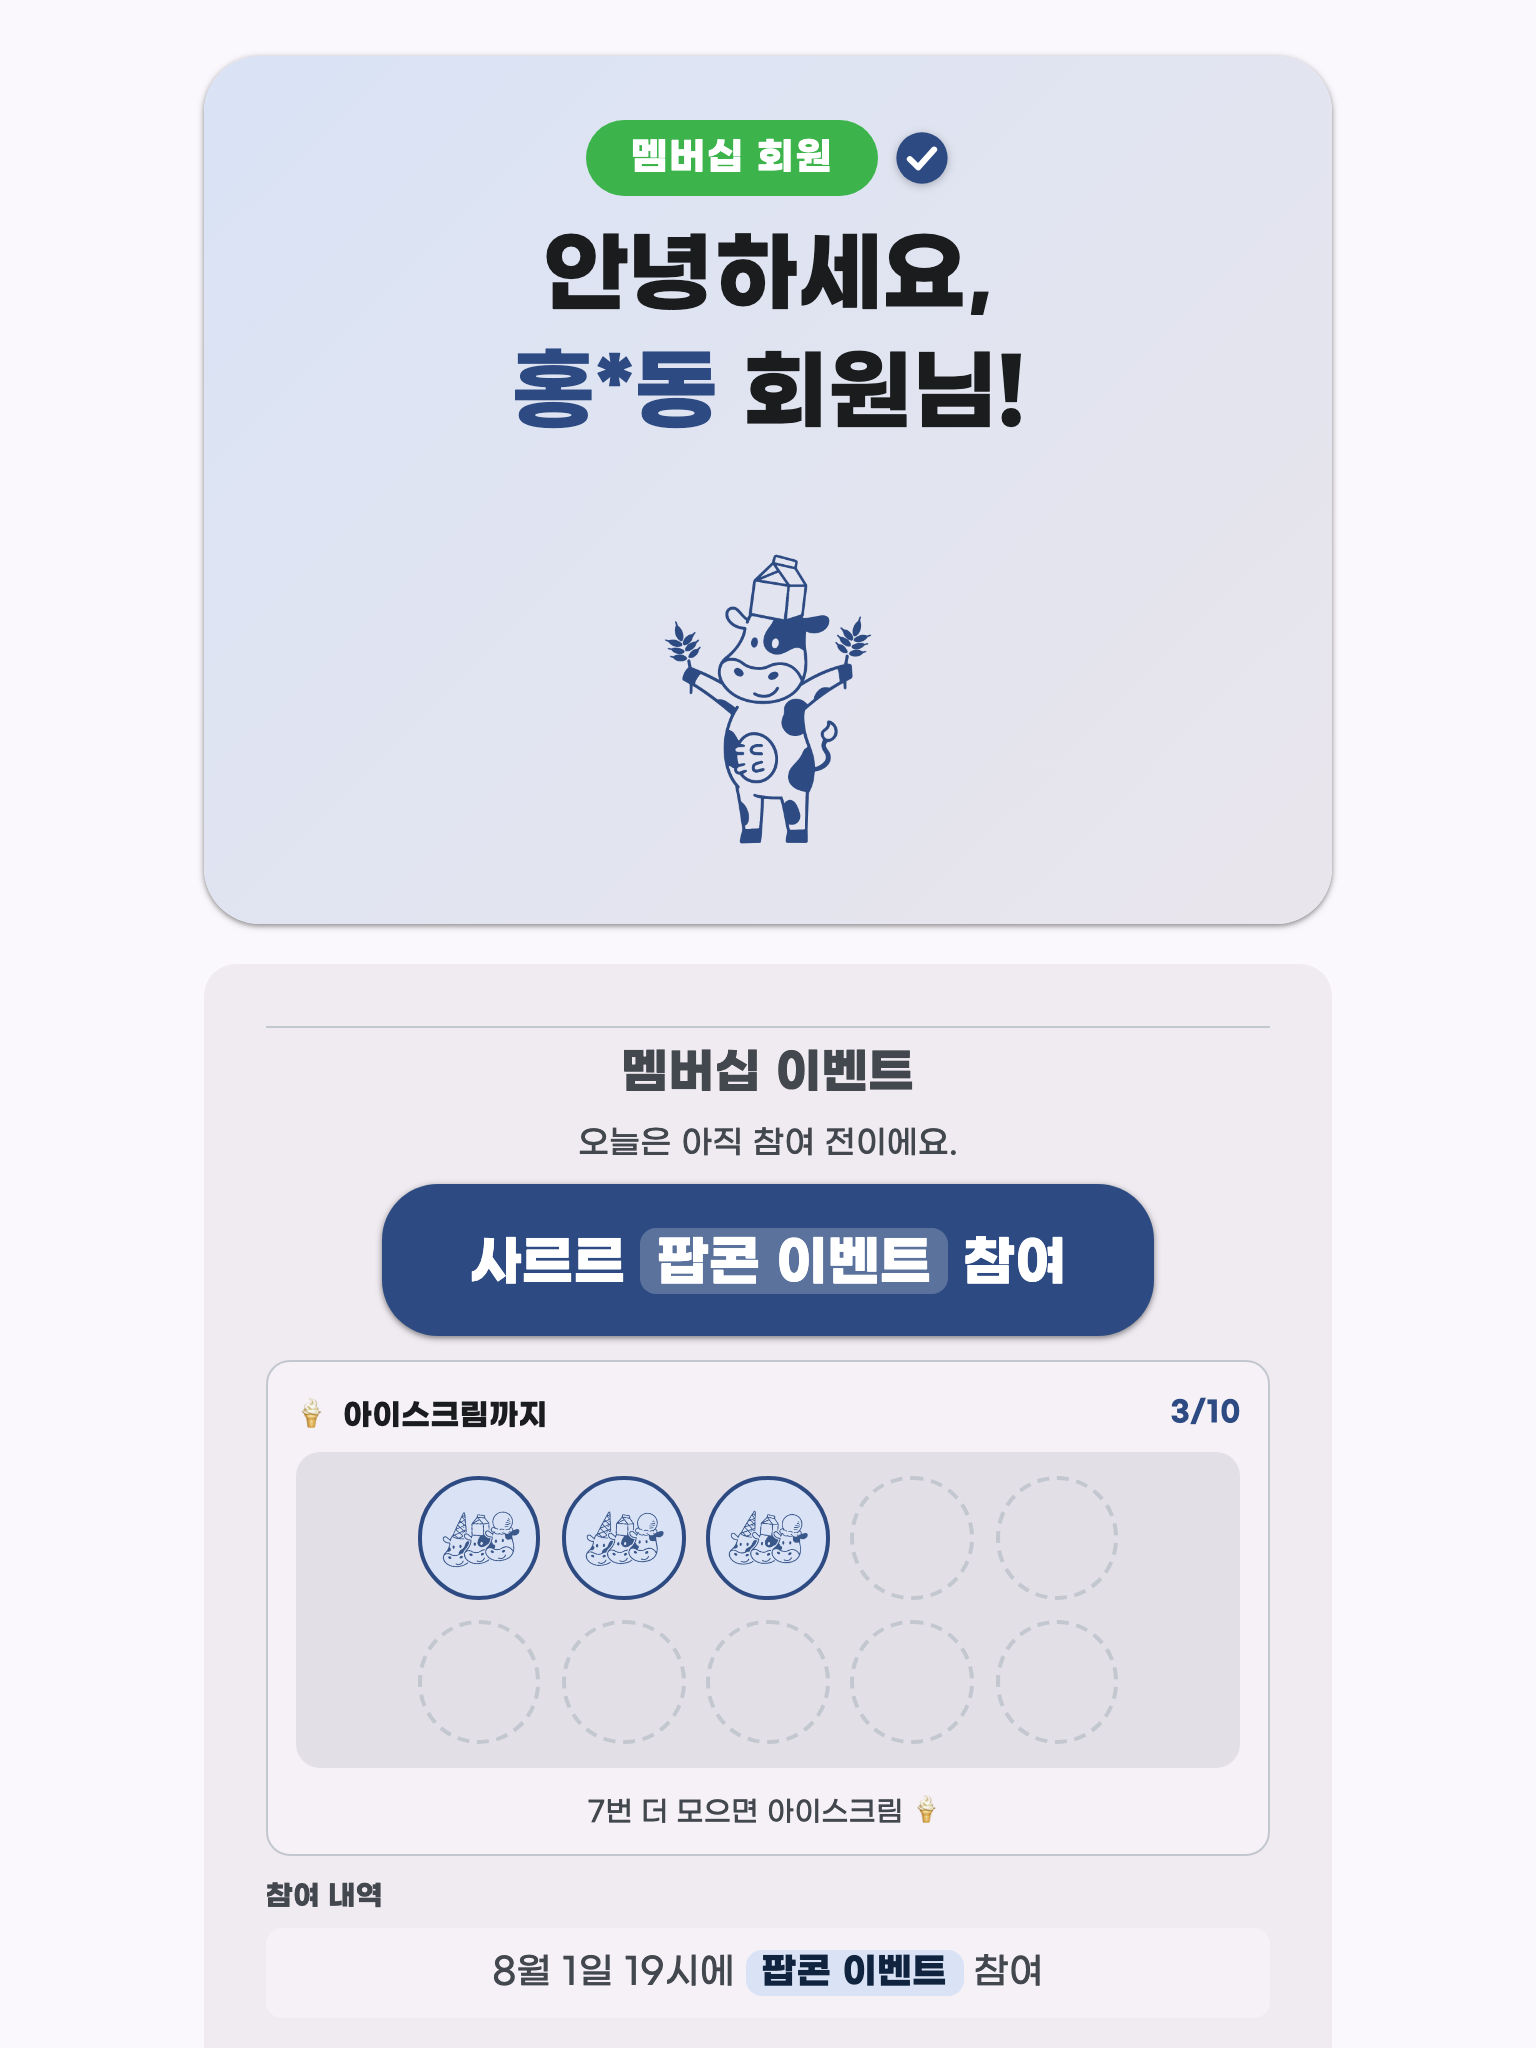
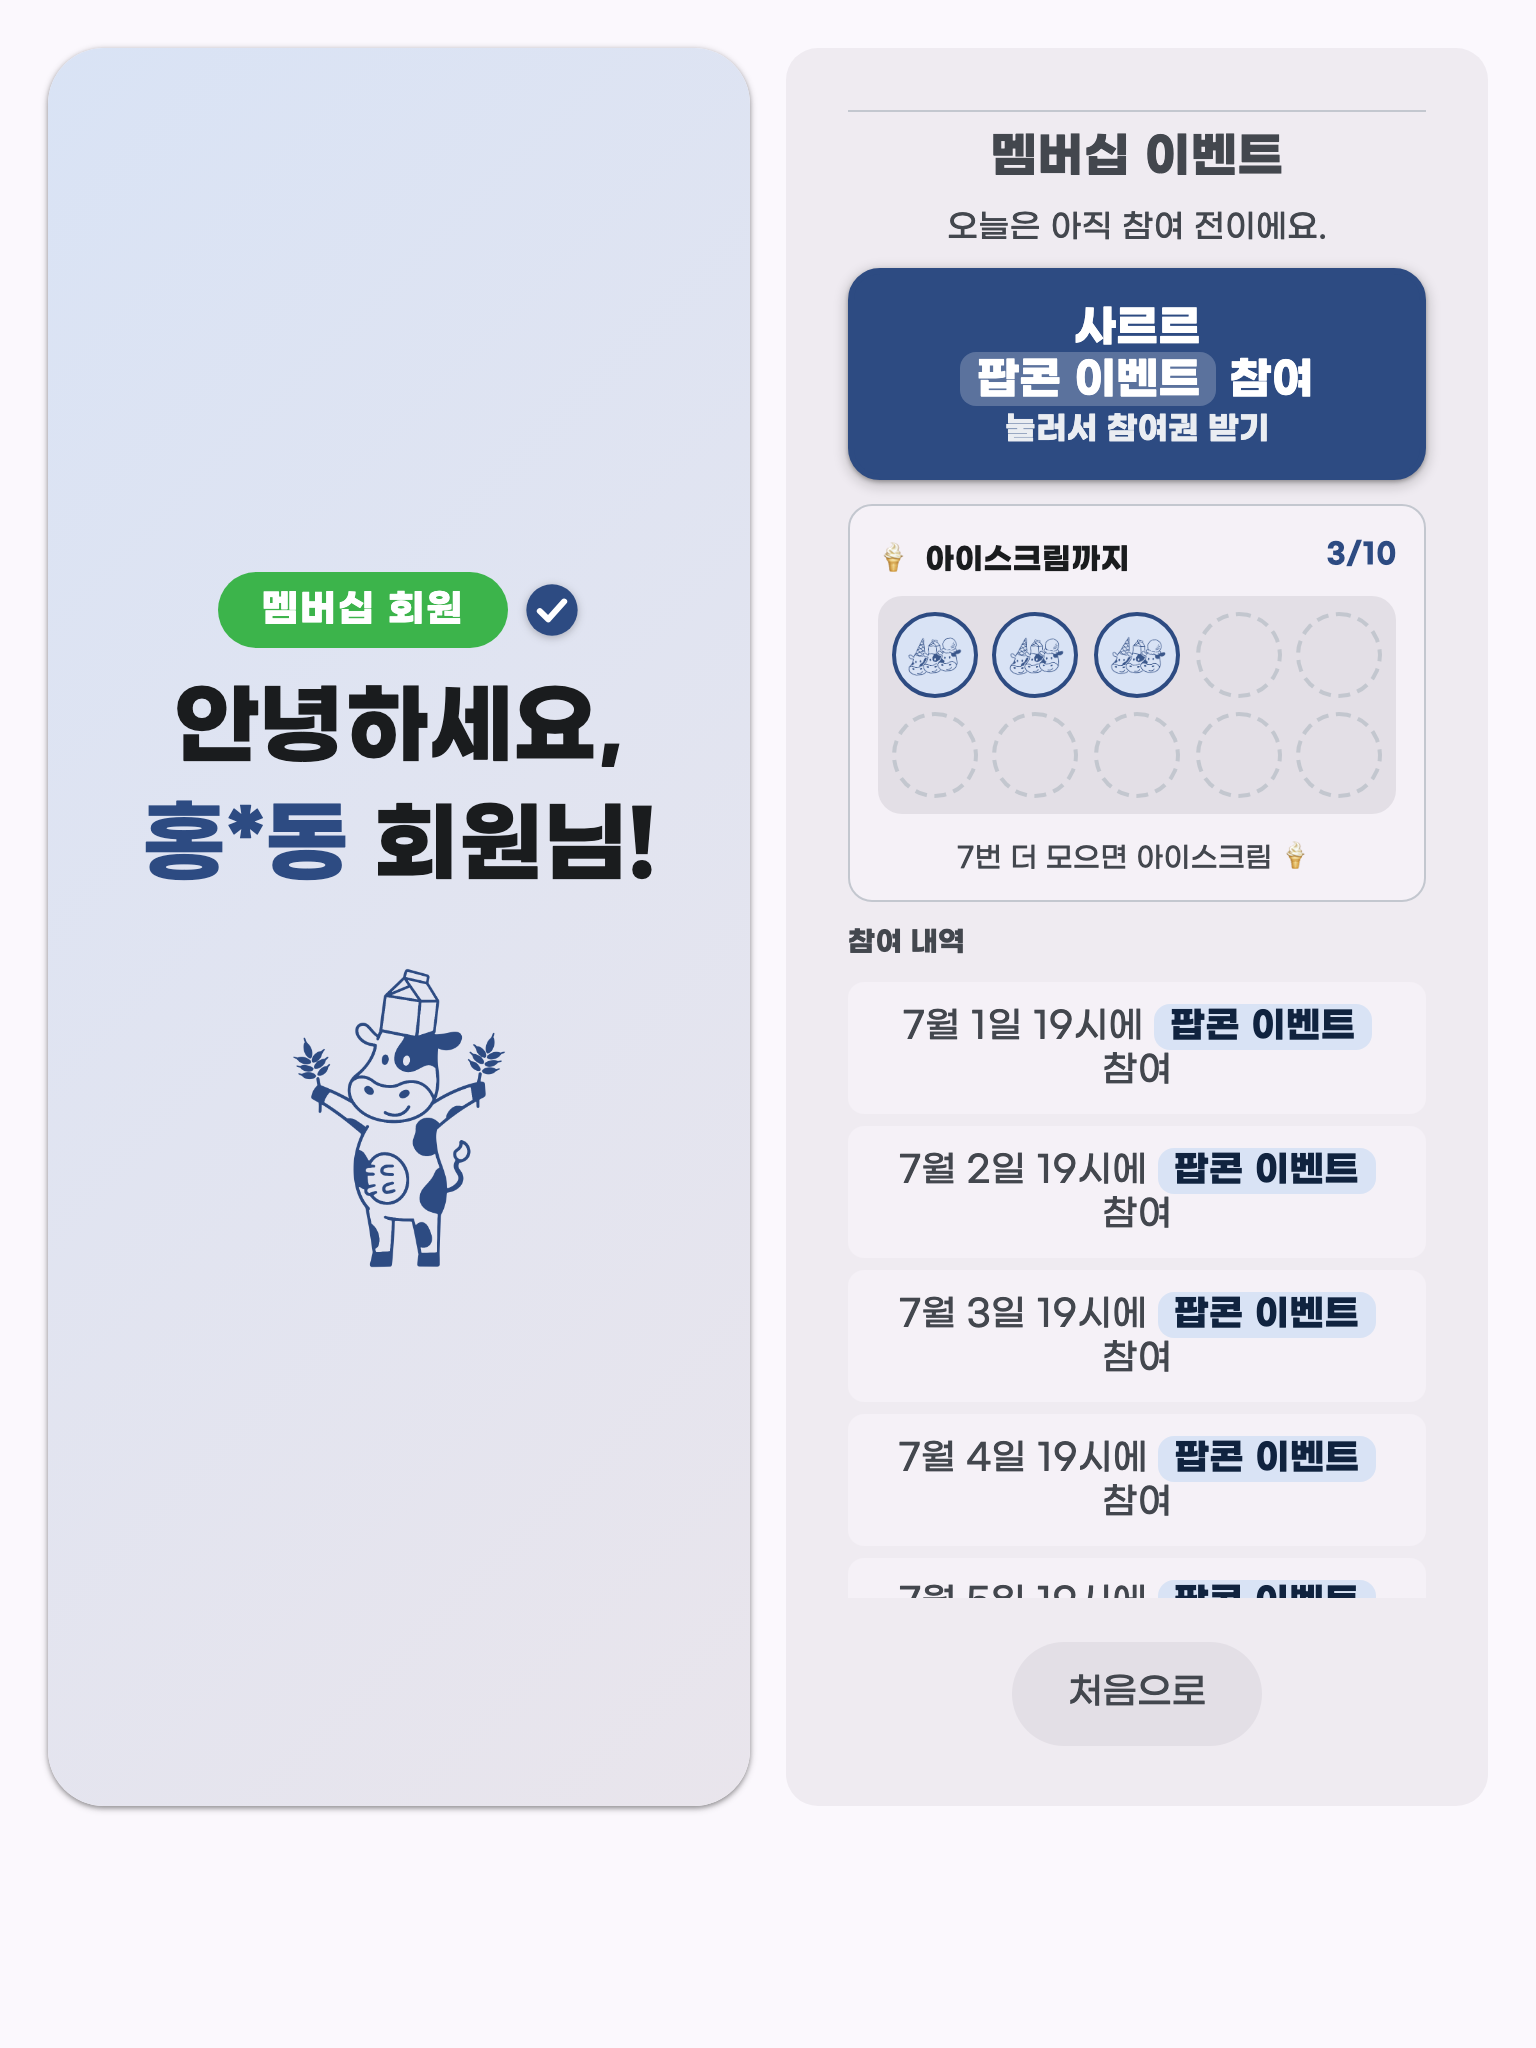
feat(membership): 조회 결과 2단·전체 무스크롤 + 참여 버튼 어포던스
유저: 「조회 결과 페이지가 스크롤이 안 생기게 2단으로. 스크롤이 생기더라도 참여 리스트 내부에서.
'사르르 팝콘 이벤트 참여'도 더 버튼처럼, «눌러서 참여권 받기» 같이 정확히 표현.」

■ 2단 그리드(세로 768x1024) — 단 구성 근거(시선 흐름):
  **왼쪽 = «나»**(배지·인사말·마스코트) — 손님이 자기를 확인하는 영역
  **오른쪽 = «지금 할 일»**(참여 버튼/발권 결과 + 스탬프 + 참여내역)
  왼쪽에서 «내가 맞네»를 확인하고 오른쪽으로 넘어가 행동한다. 어르신 기준으로 «할 일»이
  한 덩어리에 모여 있는 편이 낫다.
- 전체 페이지 스크롤 **0**, 참여내역만 자체 overflow.
- ★발권 후에도 0을 유지하도록 QR·티켓·스탬프칸을 2단 폭에 맞춰 축소(처음엔 발권 후 전체 스크롤이
  생겨 합격 술어가 깨졌다 — 실측으로 잡음). 최후 안전망으로 오른쪽 단 자체 스크롤.
- 양 단 stretch + 왼쪽 세로 중앙정렬(start 면 왼쪽이 위만 차고 아래가 비어 균형이 깨졌다).

■ 참여 버튼: 3px 테두리·그림자·즉시 눌림 + 보조문구 **«눌러서 참여권 받기»**
  (가입 버튼·2택 모달 종이 버튼과 같은 문법 — 키오스크 전체에서 «버튼처럼 생긴 것=눌리는 것»).

검증: 참여 전/발권 후 **양쪽 다 전체 스크롤 false** · grid 2단 · 내역 자체 스크롤 true ·
참여 버튼 노출·보조문구 확인 · 시각 확인. 여정 캡처 03 갱신 + 04b(발권 후 2단) 추가.

Claude-Session: https://claude.ai/code/session_01VGU91Dob7h1pvcRDeXmNha

diff --git a/apps/membership/src/components/Kiosk/Kiosk.css b/apps/membership/src/components/Kiosk/Kiosk.css
@@ -172,6 +172,7 @@
    부모가 오버플로를 인지하지 못해 **스크롤조차 생기지 않았다**(480x800 실측: "처음으로" 291px 아래·도달 불가,
    768x1024 실기기: 인사말·배지가 화면 위로 잘림).
    → 결과화면은 **높이를 고정하지 않고 위에서부터 쌓는다**. 넘치면 정상적으로 스크롤된다. */
+.mk-role-customer .mk-main:has(.mk-result-view) { overflow: hidden; }   /* 결과화면=전체 스크롤 0 */
 .mk-app .mk-customer-view.mk-result-view {
   /* ★축 주의: 이 컨테이너는 **row** 방향이라 세로 정렬은 `align-items` 다.
      `justify-content`(가로)만 바꿨더니 세로 중앙정렬이 그대로 남아 **상단이 계속 잘렸다**(실측). */
@@ -624,10 +625,16 @@
 .mk-claimed { color: var(--md-alive); font-weight: 700; }
 
 .mk-claim-btn {
-  min-height: 52px; padding: 10px 24px; font-size: 19px; cursor: pointer; font-weight: 700;
-  border: none; border-radius: var(--md-radius-xl);
-  background: var(--md-primary); color: var(--md-on-primary); box-shadow: var(--md-elev-1);
+  min-height: 52px; padding: 12px 24px; cursor: pointer; font-weight: 700;
+  display: flex; flex-direction: column; align-items: center; justify-content: center; gap: 2px;
+  border: 3px solid var(--md-primary); border-radius: var(--md-radius-lg);   /* ★버튼 문법 통일 */
+  background: var(--md-primary); color: var(--md-on-primary); box-shadow: var(--md-elev-2);
+  touch-action: manipulation;
 }
+.mk-claim-main { font-size: clamp(17px, 3vw, 22px); }
+.mk-claim-sub { font-size: clamp(13px, 2.2vw, 16px); font-weight: 600; opacity: .9; }
+.mk-claim-btn:active:not(:disabled) { transform: scale(0.98); }   /* 지연 없이 즉시 */
+@media (prefers-reduced-motion: reduce) { .mk-claim-btn:active:not(:disabled) { transform: none; } }
 .mk-claim-btn:disabled { opacity: 0.5; box-shadow: none; }
 .mk-signup-cta {
   min-height: 52px; padding: 10px 24px; font-size: 18px; cursor: pointer; font-weight: 600;
@@ -735,12 +742,39 @@
   .mk-role-customer .mk-pad-xl .mk-pad-submit { min-height: clamp(52px, 7vh, 88px); font-size: clamp(22px, 4vw, 30px); }
 
   /* 조회 결과: 세로 2단 → 세로 스택(인사말 위 · 이벤트/내역 아래). 큰 글씨 유지. */
+  /* ★조회 결과 = **2단 그리드**(2026-08-06 유저: 「스크롤이 안 생기게 2단으로, 스크롤이 생기더라도
+     참여 리스트 내부에서」). 전체 페이지 스크롤 0 이 합격 술어다.
+     단 구성 근거(시선 흐름): **왼쪽 = «나»**(인사말·마스코트·스탬프 진행 — 손님이 자기를 확인하는 영역),
+     **오른쪽 = «지금 할 일»**(참여 버튼/발권 결과 + 참여내역). 왼쪽에서 «내가 맞네»를 확인하고
+     오른쪽으로 시선이 넘어가 행동한다. 어르신 기준으로 «할 일»이 한 덩어리에 모여 있는 게 낫다. */
   .mk-role-customer .mk-result-view .mk-member-card-hero {
-    flex-direction: column; align-items: center; max-height: none;
-    height: auto; max-width: 620px; gap: 20px; padding: clamp(16px, 3vh, 28px);
+    display: grid; grid-template-columns: 1fr 1fr; align-items: stretch;   /* ★양 단 같은 높이 — start 면 왼쪽이 위만 차고 아래가 비어 균형이 깨진다(실측) */
+    height: 100%; max-height: 100%; max-width: none;
+    gap: clamp(12px, 2.4vw, 24px); padding: clamp(12px, 2.4vh, 24px);
+    overflow: hidden;                      /* 전체 스크롤 금지 — 넘치면 내부에서 처리 */
   }
   .mk-role-customer .mk-member-card-hero .mk-member-hero,
-  .mk-role-customer .mk-member-card-hero .mk-member-body { flex: 0 0 auto; width: 100%; }
+  .mk-role-customer .mk-member-card-hero .mk-member-body {
+    width: 100%; min-width: 0; min-height: 0; height: 100%; max-height: 100%;
+    display: flex; flex-direction: column; overflow: hidden;
+  }
+  /* 왼쪽(«나») = 세로 중앙에 모아 카드가 비어 보이지 않게 */
+  .mk-role-customer .mk-member-card-hero .mk-member-hero { justify-content: center; }
+  /* 참여내역만 자체 스크롤 — 남는 높이를 전부 먹고 그 안에서 넘친다 */
+  .mk-role-customer .mk-member-card-hero .mk-history-wrap { flex: 1 1 auto; min-height: 0; display: flex; flex-direction: column; }
+  .mk-role-customer .mk-member-card-hero .mk-history { flex: 1 1 auto; min-height: 0; max-height: none; overflow-y: auto; }
+  /* 2단이라 폭이 절반 — 큰 글씨를 단 폭에 맞춘다 */
+  .mk-role-customer .mk-member-card-hero .mk-greeting { font-size: clamp(22px, 4.2vw, 34px); }
+  .mk-role-customer .mk-member-card-hero .mk-hero-pose { width: clamp(80px, 12vh, 130px); margin-top: clamp(6px, 1.4vh, 14px); }
+  /* ★발권 후에도 전체 스크롤 0 유지: 티켓 카드(토큰+QR)가 오른쪽 단을 넘치게 하던 것을 잡는다.
+     QR 은 여기선 «있다는 표시»면 충분하다 — 크게 보는 건 2택 모달 쪽이다(뎁스0). */
+  .mk-role-customer .mk-member-card-hero .mk-tqr-img { width: clamp(84px, 13vh, 124px); }
+  .mk-role-customer .mk-member-card-hero .mk-ticket { padding: 10px 12px; gap: 6px; }
+  .mk-role-customer .mk-member-card-hero .mk-ticket-token { font-size: clamp(20px, 3.6vw, 26px); letter-spacing: 2px; }
+  .mk-role-customer .mk-member-card-hero .mk-stampcard { padding: 8px; gap: clamp(5px, 1vw, 9px); }
+  .mk-role-customer .mk-member-card-hero .mk-stamp-cell { width: clamp(34px, 5.6vw, 46px); height: clamp(34px, 5.6vw, 46px); }
+  /* 최후 안전망: 그래도 넘치면 오른쪽 단 안에서 스크롤(페이지는 절대 안 움직인다) */
+  .mk-role-customer .mk-member-card-hero .mk-member-body { overflow-y: auto; }
   .mk-role-customer .mk-member-card-hero .mk-greeting { font-size: clamp(28px, 6vw, 44px); }
   .mk-role-customer .mk-member-card-hero .mk-history { max-height: 30vh; }
   /* 도장판 5×2 — 세로에선 폭이 남으니 칸을 키워 가독성 확보(어르신). 5열 고정은 base 에서. */

diff --git a/apps/membership/src/components/Kiosk/MemberCard.jsx b/apps/membership/src/components/Kiosk/MemberCard.jsx
@@ -217,8 +217,13 @@ export default function MemberCard({ member, history = [], claiming, redeeming, 
           ) : (
             <>
               <div className="mk-event-todo">오늘은 아직 참여 전이에요.</div>
+              {/* ★버튼 문법 통일(2026-08-06): 테두리·그림자·즉시 눌림 + 보조문구로 «무엇이 일어나는지» 명시.
+                  2택 모달의 종이 버튼·가입 버튼과 같은 축이라 키오스크 전체에서 «버튼처럼 생긴 것=눌리는 것». */}
               <button className="mk-claim-btn" onClick={handleClaim} disabled={claiming || !onClaim}>
-                {claiming ? '발권 중…' : <>사르르 <span className="mk-evt-tag">{EVENT_LABEL}</span> 참여</>}
+                <span className="mk-claim-main">
+                  {claiming ? '발권 중…' : <>사르르 <span className="mk-evt-tag">{EVENT_LABEL}</span> 참여</>}
+                </span>
+                {!claiming && <span className="mk-claim-sub">눌러서 참여권 받기</span>}
               </button>
             </>
           )}
